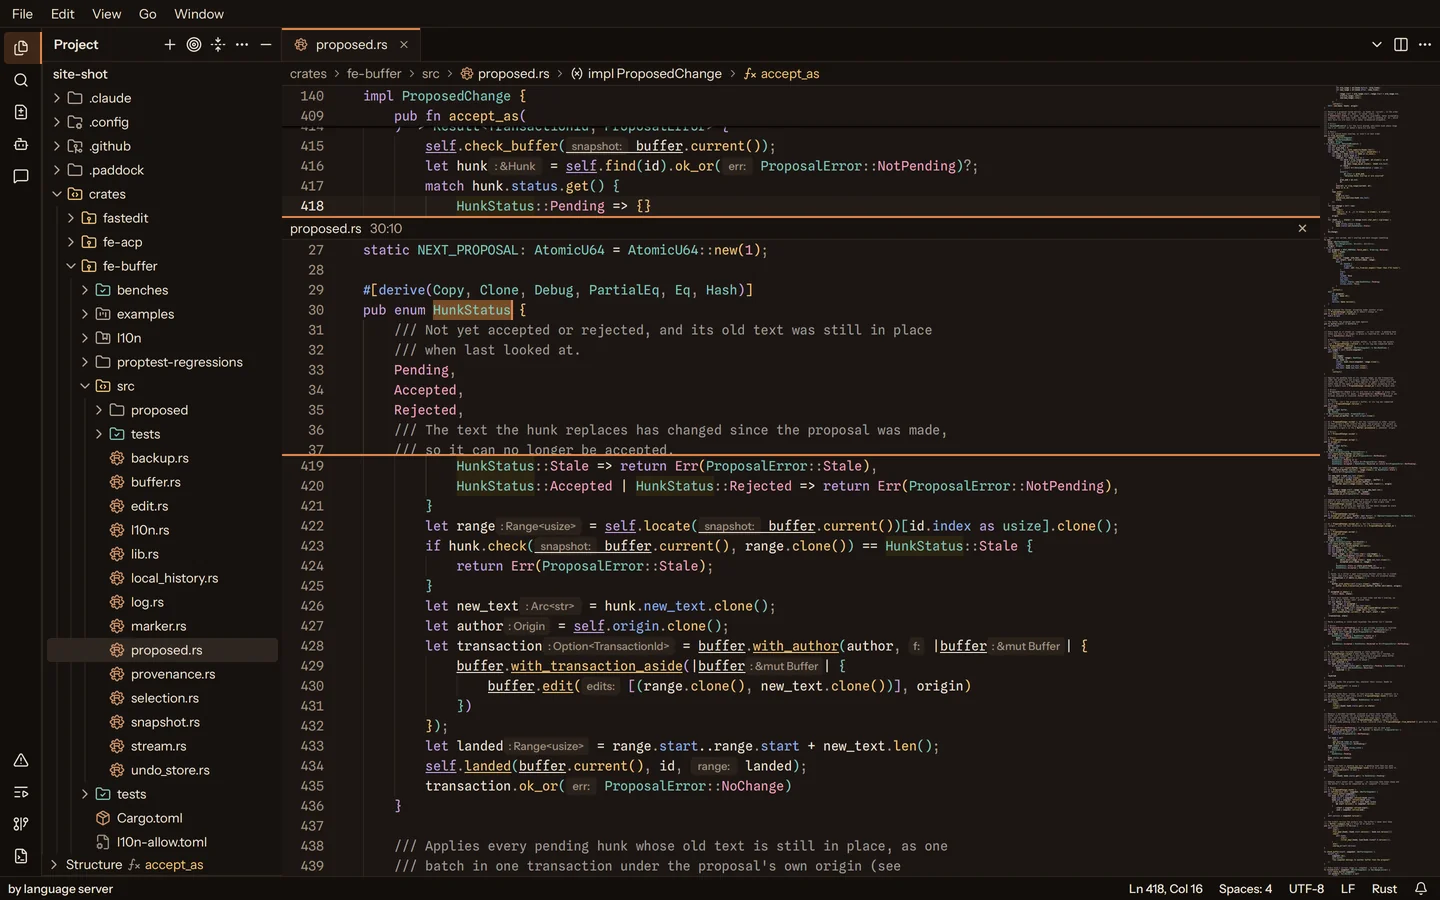
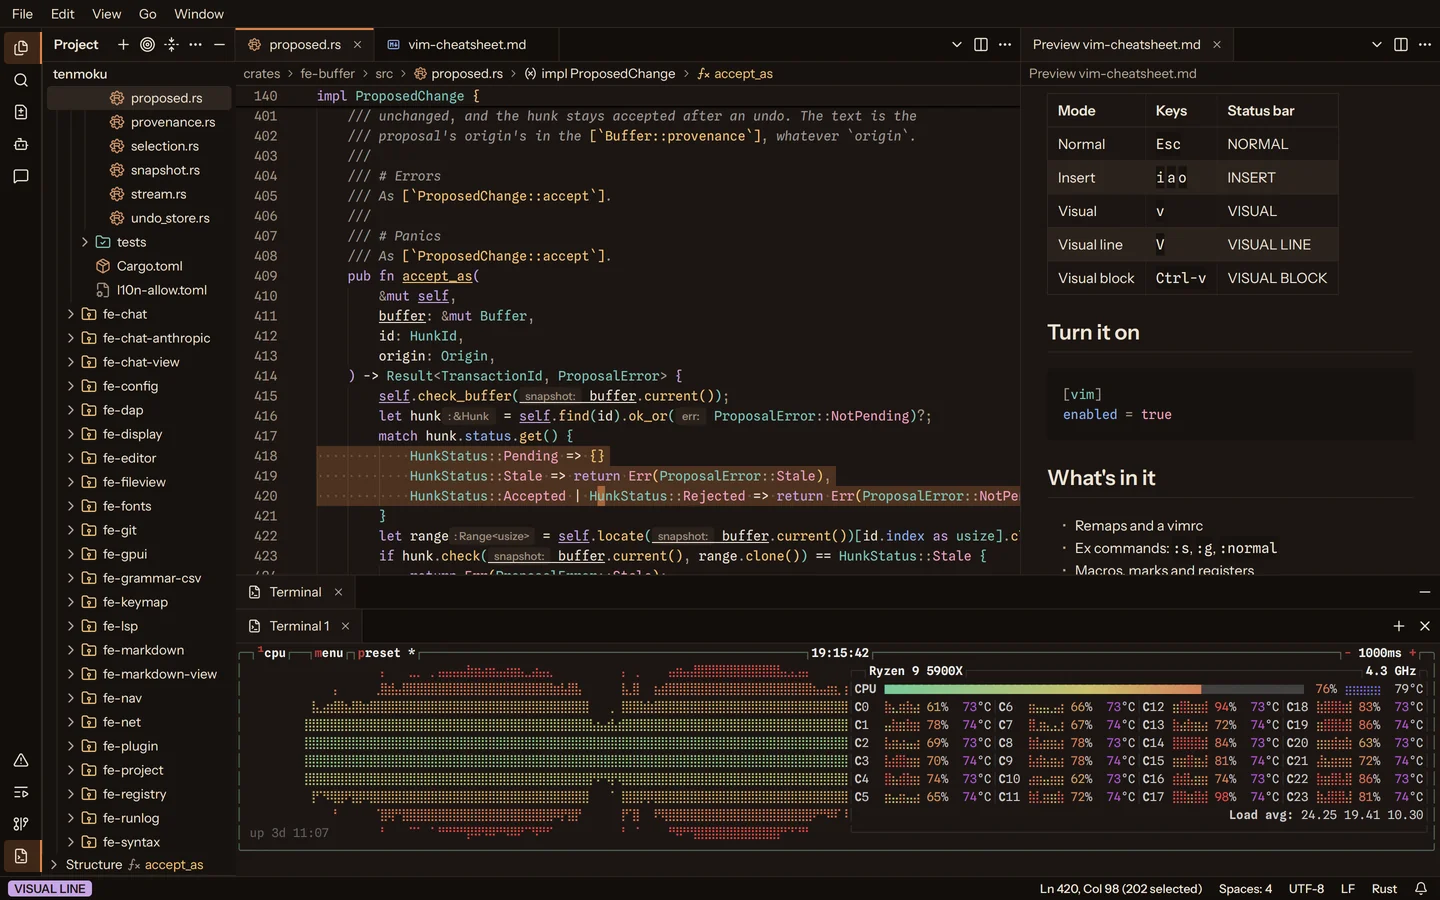
Recapture the hero: vim mode, Markdown preview and btop
The old hero had Peek Definition open, whose accent borders read as stray
orange rules across the editor. The new one shows more of the app at once,
from helium main be372cf95 (with T1915, so no stray status label), in a
clean checkout so the git rail shows no change count:

- proposed.rs in vim mode with lines 418-420 selected in visual-line mode
  (VISUAL LINE in the status bar), scrolled to a whole-row offset under the
  sticky header, with inlay hints and breadcrumbs;
- a Markdown preview to the side (markdown.show_preview_to_side) with a
  table, a code block and a list;
- btop's CPU box in the terminal panel, in truecolor and braille.

Same capture as before: Xvfb 2880x1840 with GPUI_X11_SCALE_FACTOR=2, the
window at 1440x900 logical, Yohen. Alt text, caption and og:image:alt
describe the new shot.

diff --git a/index.html b/index.html
@@ -19,7 +19,7 @@
   <meta property="og:image" content="https://tenmoku.dev/assets/og.png">
   <meta property="og:image:width" content="1200">
   <meta property="og:image:height" content="630">
-  <meta property="og:image:alt" content="The Tenmoku editor with a Rust file, the project tree and a peek at a definition">
+  <meta property="og:image:alt" content="The Tenmoku editor in vim mode, with a Markdown preview beside the code and btop in the terminal">
   <meta name="twitter:card" content="summary_large_image">
   <link rel="preload" href="assets/fonts/InstrumentSans-Regular.woff2" as="font" type="font/woff2" crossorigin>
   <link rel="stylesheet" href="assets/style.css">
@@ -49,9 +49,9 @@
     <figure class="shot">
       <picture>
         <source srcset="assets/hero.webp 1x, assets/hero@2x.webp 2x" type="image/webp">
-        <img src="assets/hero.png" width="1440" height="900" alt="Tenmoku in its dark theme: the project tree on the left, a Rust file from Tenmoku's own source with syntax highlighting, and a peek window showing a definition inline, with rust-analyzer in the status bar.">
+        <img src="assets/hero.png" width="1440" height="900" alt="Tenmoku in its dark theme, in vim mode: the project tree on the left, a Rust file from Tenmoku's own source with three lines selected in visual-line mode and VISUAL LINE in the status bar, a rendered Markdown preview with a table, a code block and a list on the right, and btop graphing CPU load in the terminal below.">
       </picture>
-      <figcaption>Tenmoku editing its own source: the project tree, rust-analyzer, and Peek Definition.</figcaption>
+      <figcaption>Tenmoku editing its own source: vim mode, a Markdown preview to the side, and btop in the built-in terminal.</figcaption>
     </figure>
 
     <section id="features" class="features" aria-label="Features">
